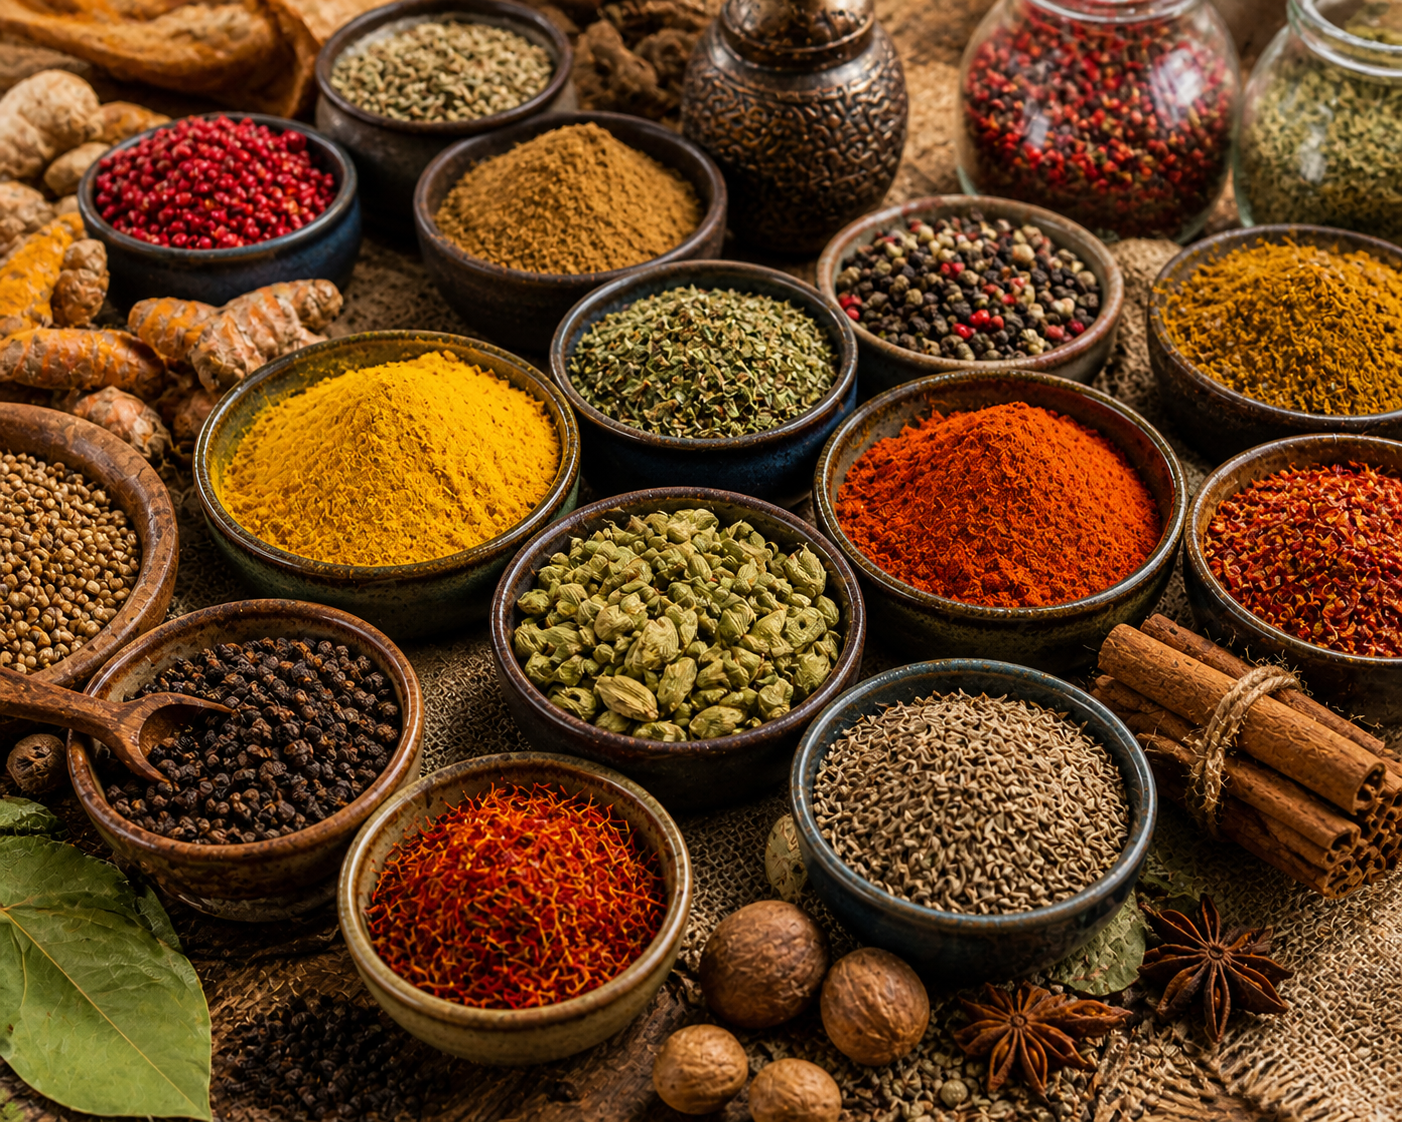
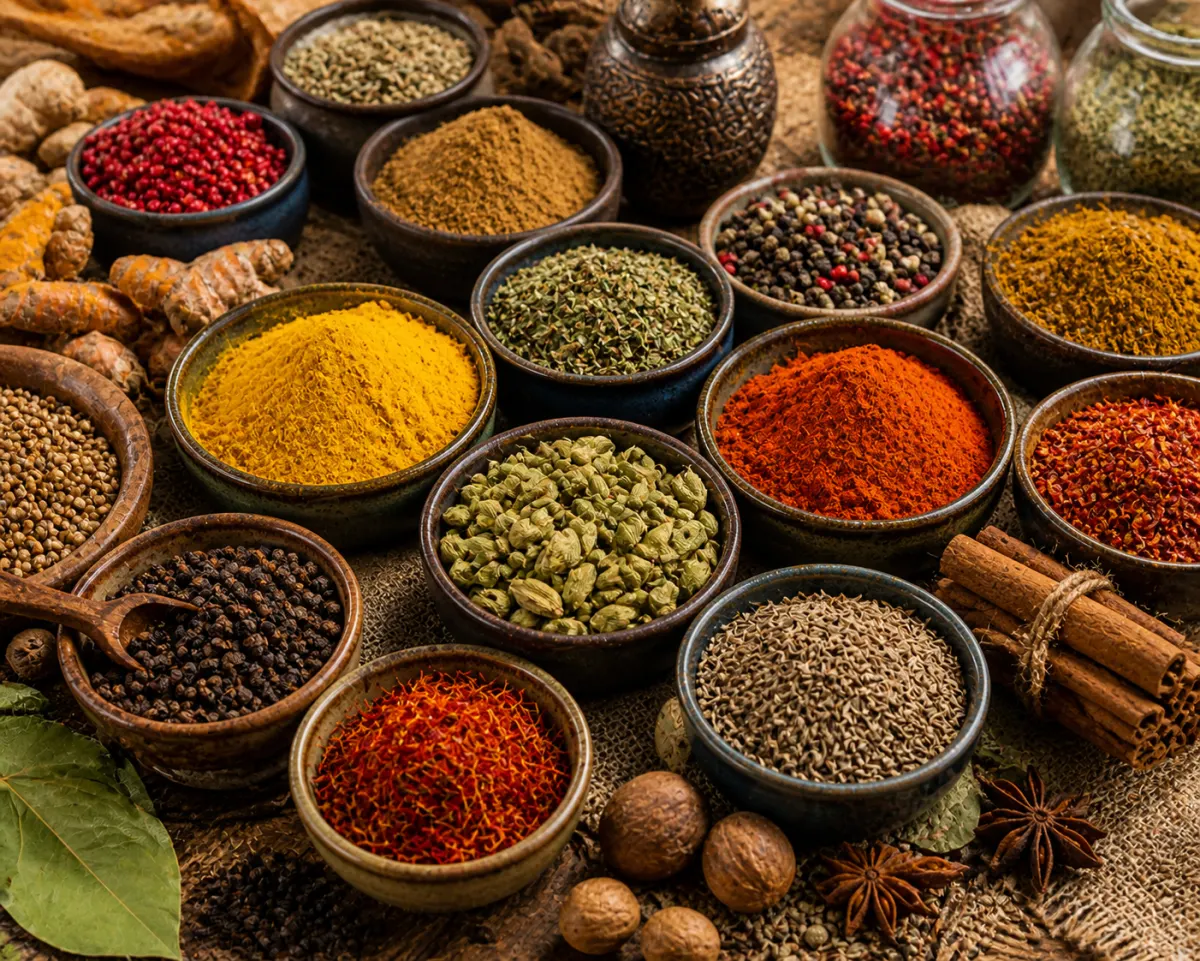
fix

Changed region(s): [[0.7092, 0.4683, 0.74, 0.4995], [0.7092, 0.4058, 0.74, 0.437], [0.4008, 0.718, 0.4317, 0.7492]]

diff --git a/src/styles/global.css b/src/styles/global.css
@@ -1,6 +1,8 @@
 @font-face {
   font-family: Montserrat;
   src: url("/assets/fonts/Montserrat-VariableFont_wght.woff2") format("woff2");
+  font-weight: 100 900;
+  font-style: normal;
   font-display: swap;
 }
 